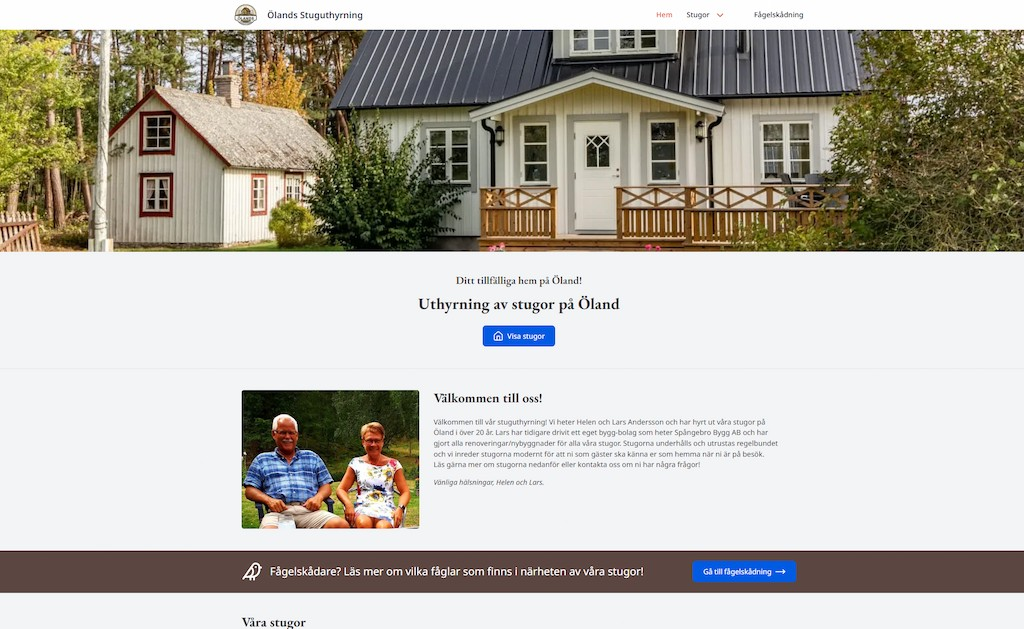
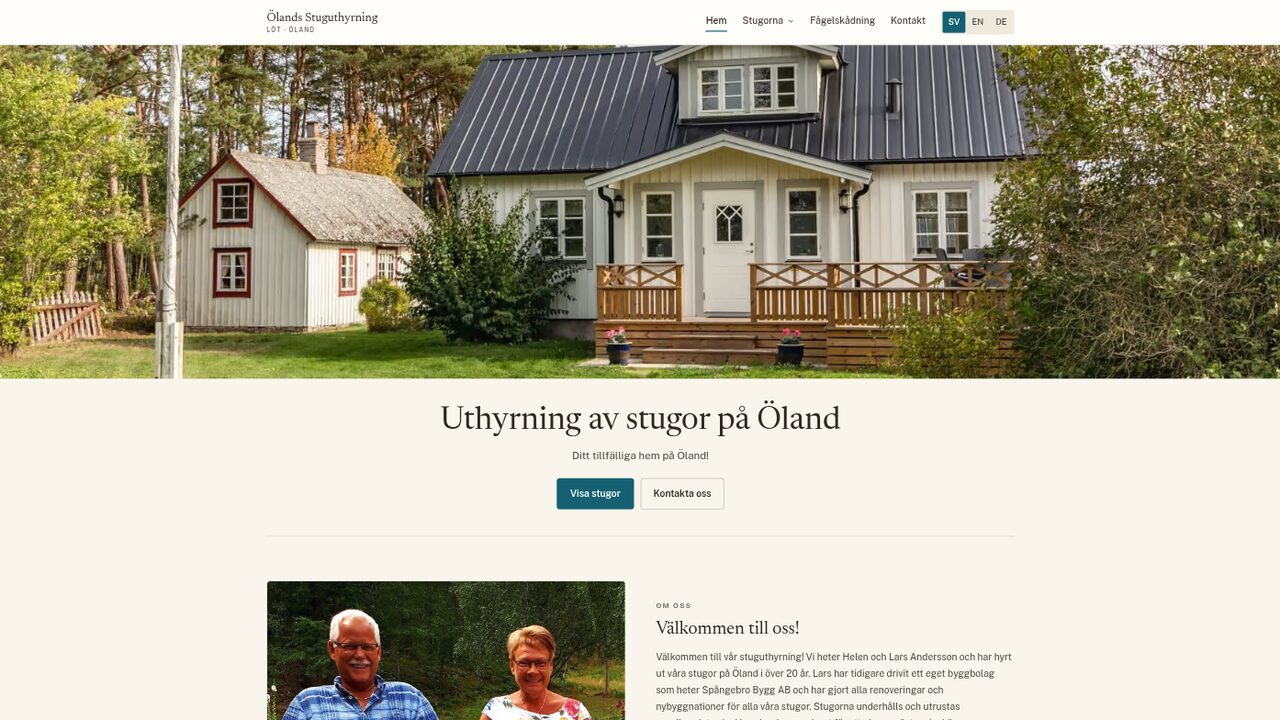
feat(portfolio): update Olandsstuguthyrning after its Astro rebuild
The site was rebuilt in September 2026 as a static Astro site on GitHub
Pages. Update its technologies (TypeScript, Astro, Svelte, Tailwind,
GitHub Pages instead of SvelteKit, MySQL and IIS), add a sentence about
the rebuild to the Swedish and English descriptions, and replace the
project image with a 1280x720 screenshot of the redesigned homepage.

diff --git a/src/i18n/projects.sv.ts b/src/i18n/projects.sv.ts
@@ -6,6 +6,6 @@ export const projectsSv: ProjectTexts = {
         title: 'Olandsstuguthyrning.com',
         descriptionTitle: 'Landningssida för uthyrning av stugor på Öland',
         description:
-            'Helen och Lars hyr ut sina stugor året runt på Öland och behövde en egen sida för att visa upp sina stugor och kunna dirigera hyrgästerna till sin bokningspartner för att skicka en bokningsförfrågan. Samt kunna erbjuda sina hyrgäster lite nyttig information kring området, som fågelskådning.'
+            'Helen och Lars hyr ut sina stugor året runt på Öland och behövde en egen sida för att visa upp sina stugor och kunna dirigera hyrgästerna till sin bokningspartner för att skicka en bokningsförfrågan. Samt kunna erbjuda sina hyrgäster lite nyttig information kring området, som fågelskådning. I september 2026 byggdes sidan om från grunden till en statisk Astro-webbplats på svenska, engelska och tyska, med ett bildgalleri för varje stuga, och flyttades från en egen IIS-server till GitHub Pages. Sidan gör inte en enda förfrågan till tredje part innan besökaren har gett sitt samtycke.'
     }
 };

diff --git a/src/i18n/projects.en.ts b/src/i18n/projects.en.ts
@@ -6,6 +6,6 @@ export const projectsEn: ProjectTexts = {
         title: 'Olandsstuguthyrning.com',
         descriptionTitle: 'Landing page for cottage rental on Öland',
         description:
-            'Helen and Lars rent out their cottages all year round on Öland and needed their own page to showcase their cottages and be able to direct the tenants to their booking partner to send a booking request. And be able to offer their tenants some useful information about the area, such as bird watching.'
+            'Helen and Lars rent out their cottages all year round on Öland and needed their own page to showcase their cottages and be able to direct the tenants to their booking partner to send a booking request. And be able to offer their tenants some useful information about the area, such as bird watching. In September 2026 the site was rebuilt from scratch as a static Astro site in Swedish, English and German, with a photo gallery for every cottage, and moved from a self-hosted IIS server to GitHub Pages. It makes no third-party requests at all until the visitor has given consent.'
     }
 };

diff --git a/src/data/projects.ts b/src/data/projects.ts
@@ -11,7 +11,7 @@ export const projects: Project[] = [
     {
         slug: 'olandsstuguthyrning-com',
         image: '/images/olandsstuguthyrning.jpg',
-        technologies: ['TypeScript', 'SvelteKit', 'Tailwind', 'MySQL', 'IIS'],
+        technologies: ['TypeScript', 'Astro', 'Svelte', 'Tailwind', 'GitHub Pages'],
         status: 'private',
         url: 'https://olandsstuguthyrning.com',
         releaseDate: '2025-03-18'
